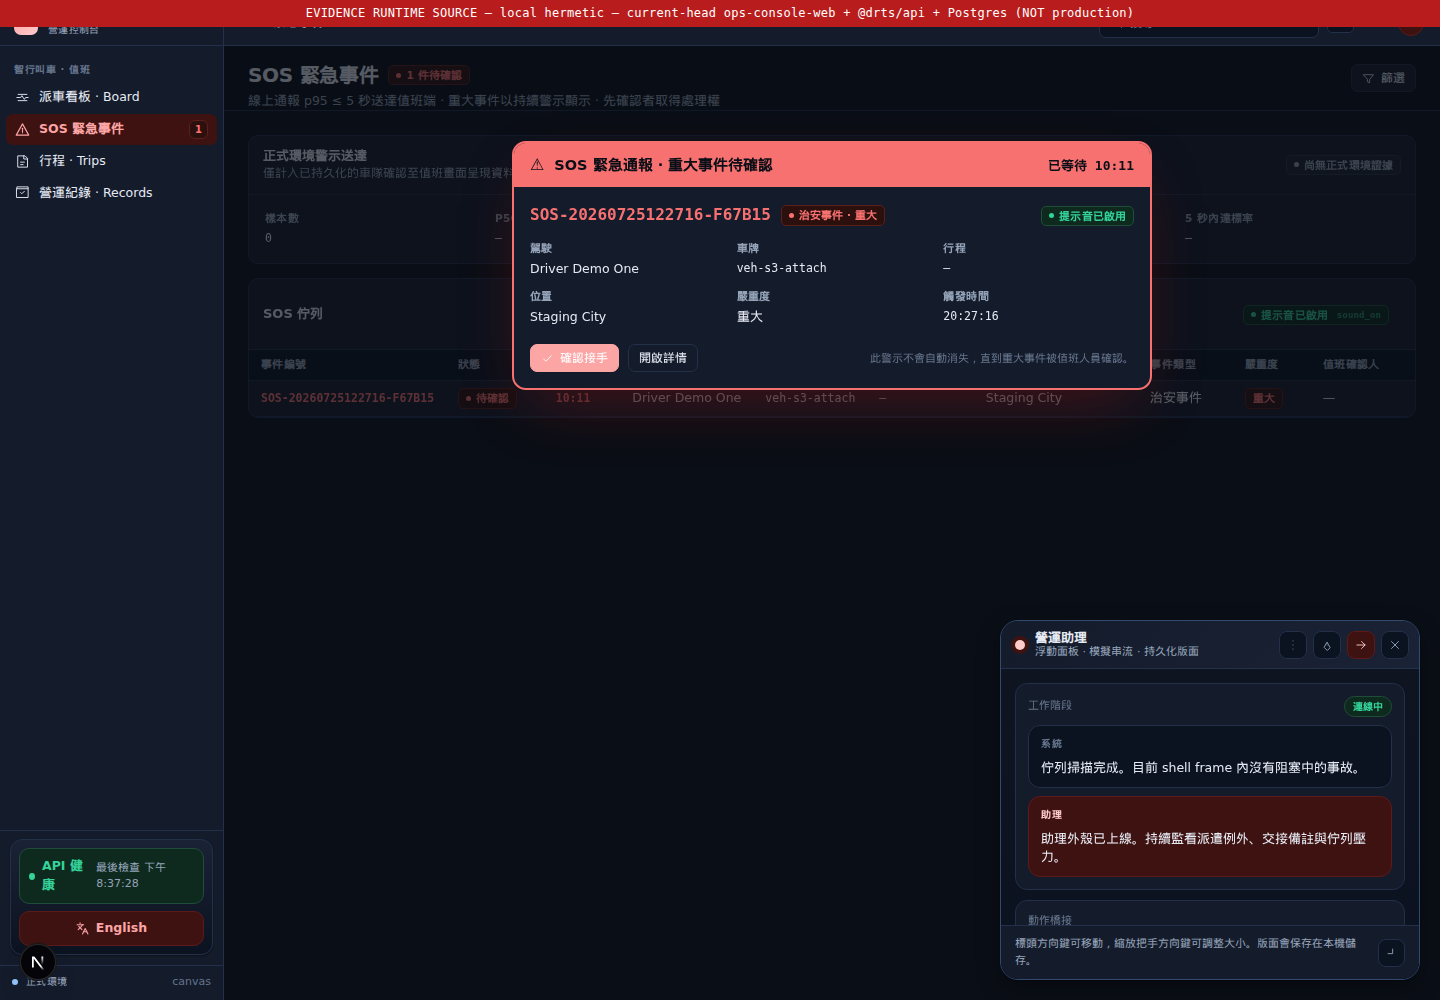
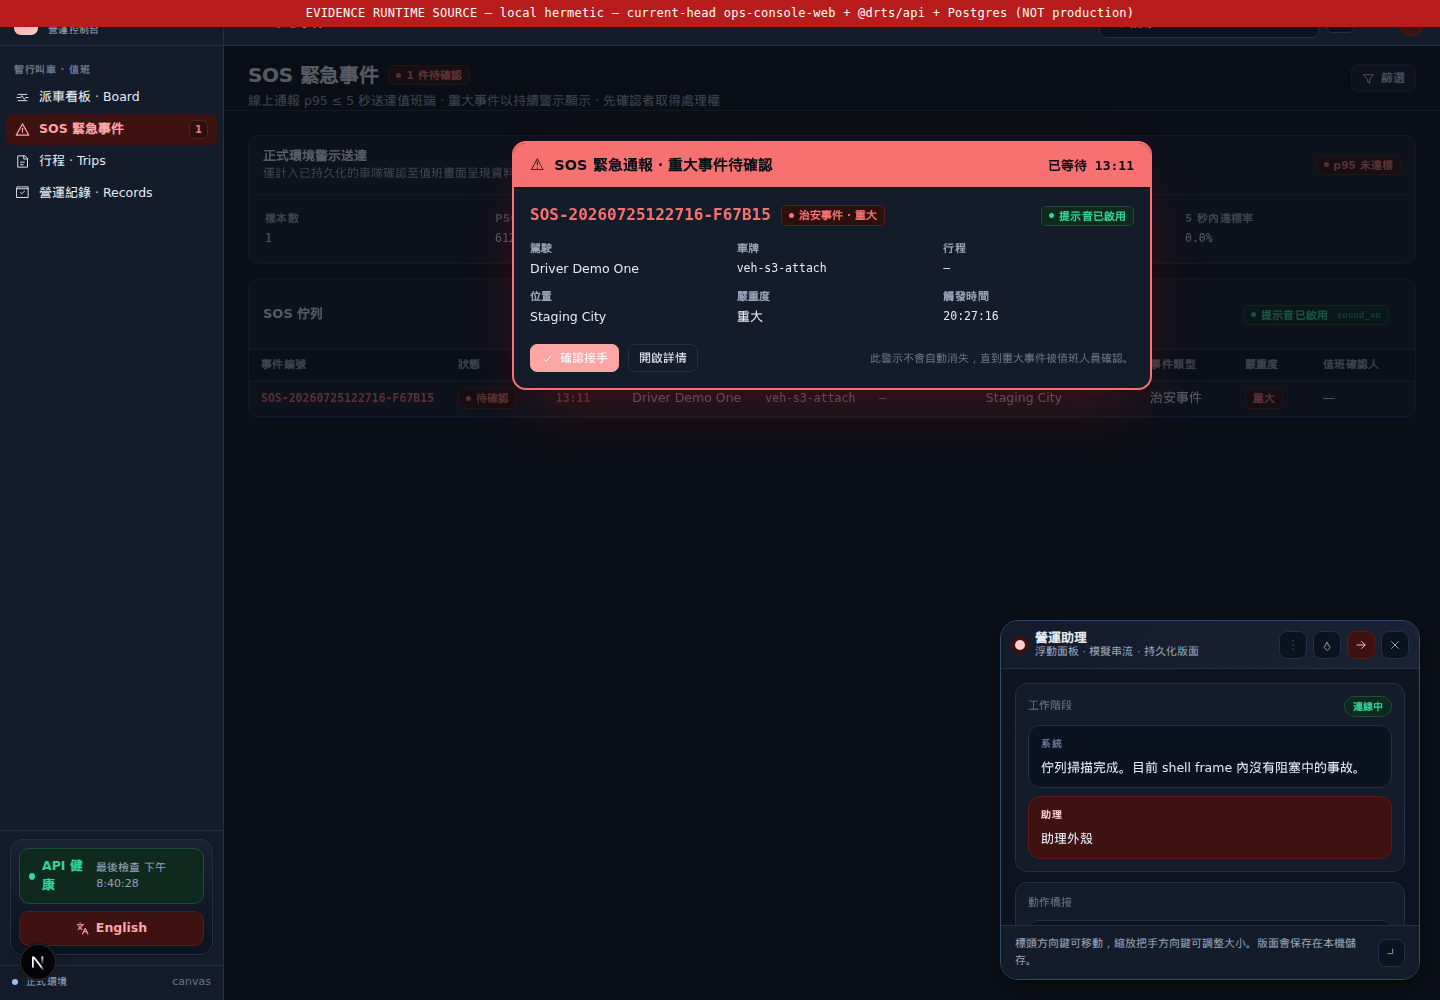
S3-VERIFY-001: require settled state for every Ops evidence capture
The records and board captures were screenshotting the loading skeleton. Every capture now waits for the loading state to clear so the frame is a settled state.

LLM-Agent: claude2

Task-ID: S3-VERIFY-001

Reviewer: Claude

Changed region(s): [[0.7188, 0.806, 0.9688, 0.93], [0.9062, 0.155, 0.9688, 0.186]]

diff --git a/tests/e2e/s3-verify-ops-evidence.spec.ts b/tests/e2e/s3-verify-ops-evidence.spec.ts
@@ -43,6 +43,17 @@ test.afterAll(() => {
   );
 });
 
+// Every one of these screens paints a "載入中…" skeleton first and fills in
+// after a client fetch. `networkidle` alone still catches the skeleton, and a
+// screenshot of a skeleton is not evidence of anything. Wait for the loading
+// state to clear so the captured frame is a settled state — rows, empty, or
+// error — and let the caller assert which one it should be.
+async function settle(page: Page) {
+  await expect(page.locator("body")).toBeVisible();
+  await page.waitForLoadState("networkidle");
+  await expect(page.getByText("載入中")).toHaveCount(0, { timeout: 60_000 });
+}
+
 async function capture(page: Page, file: string, screen: string, url: string) {
   // Stamp the runtime source INTO the image, so a screenshot that gets copied
   // out of the repo cannot be mistaken for production evidence.
@@ -79,25 +90,23 @@ test("S3-O02 SOS queue renders real current-head incident rows", async ({
   page,
 }) => {
   await page.goto("/sos");
-  await expect(page.locator("body")).toBeVisible();
+  await settle(page);
 
-  // `networkidle` is NOT sufficient here: the queue fetches GET /api/incidents
-  // after hydration, so an early capture yields a "載入中…" skeleton with zero
-  // rows. Screenshotting that and calling it evidence is exactly the vacuous
-  // pass this task exists to prevent. Wait for a real SOS event number
-  // (SOS-<14 digits>-<hex>) to be painted, and assert it, so the PNG cannot be
-  // green while the table is empty.
-  const eventNo = page.getByText(/SOS-\d{14}-[0-9A-F]+/);
-  await expect(eventNo.first()).toBeVisible({ timeout: 60_000 });
-  await expect(page.getByText("載入中")).toHaveCount(0);
+  // Beyond settling, this screen must show a REAL event number
+  // (SOS-<14 digits>-<6 hex>) written by this task's own runtime run. Asserting
+  // it is what makes the PNG evidence rather than decoration: before the
+  // sos-view-model pattern fix this expectation failed, because the queue
+  // filtered out every real incident and settled to an empty table.
+  await expect(page.getByText(/SOS-\d{14}-[0-9A-F]{6}/).first()).toBeVisible({
+    timeout: 60_000,
+  });
 
   await capture(page, "S3-O02-sos-queue.png", "S3-O02 SOS Queue", "/sos");
 });
 
-test("S3-O05 SOS records surface renders", async ({ page }) => {
+test("S3-O05 SOS records surface reaches a settled state", async ({ page }) => {
   await page.goto("/sos/records");
-  await expect(page.locator("body")).toBeVisible();
-  await page.waitForLoadState("networkidle");
+  await settle(page);
   await capture(
     page,
     "S3-O05-sos-records.png",
@@ -106,9 +115,8 @@ test("S3-O05 SOS records surface renders", async ({ page }) => {
   );
 });
 
-test("S3-O03 SOS board renders", async ({ page }) => {
+test("S3-O03 SOS board reaches a settled state", async ({ page }) => {
   await page.goto("/sos/board");
-  await expect(page.locator("body")).toBeVisible();
-  await page.waitForLoadState("networkidle");
+  await settle(page);
   await capture(page, "S3-O03-sos-board.png", "S3-O03 SOS board", "/sos/board");
 });
